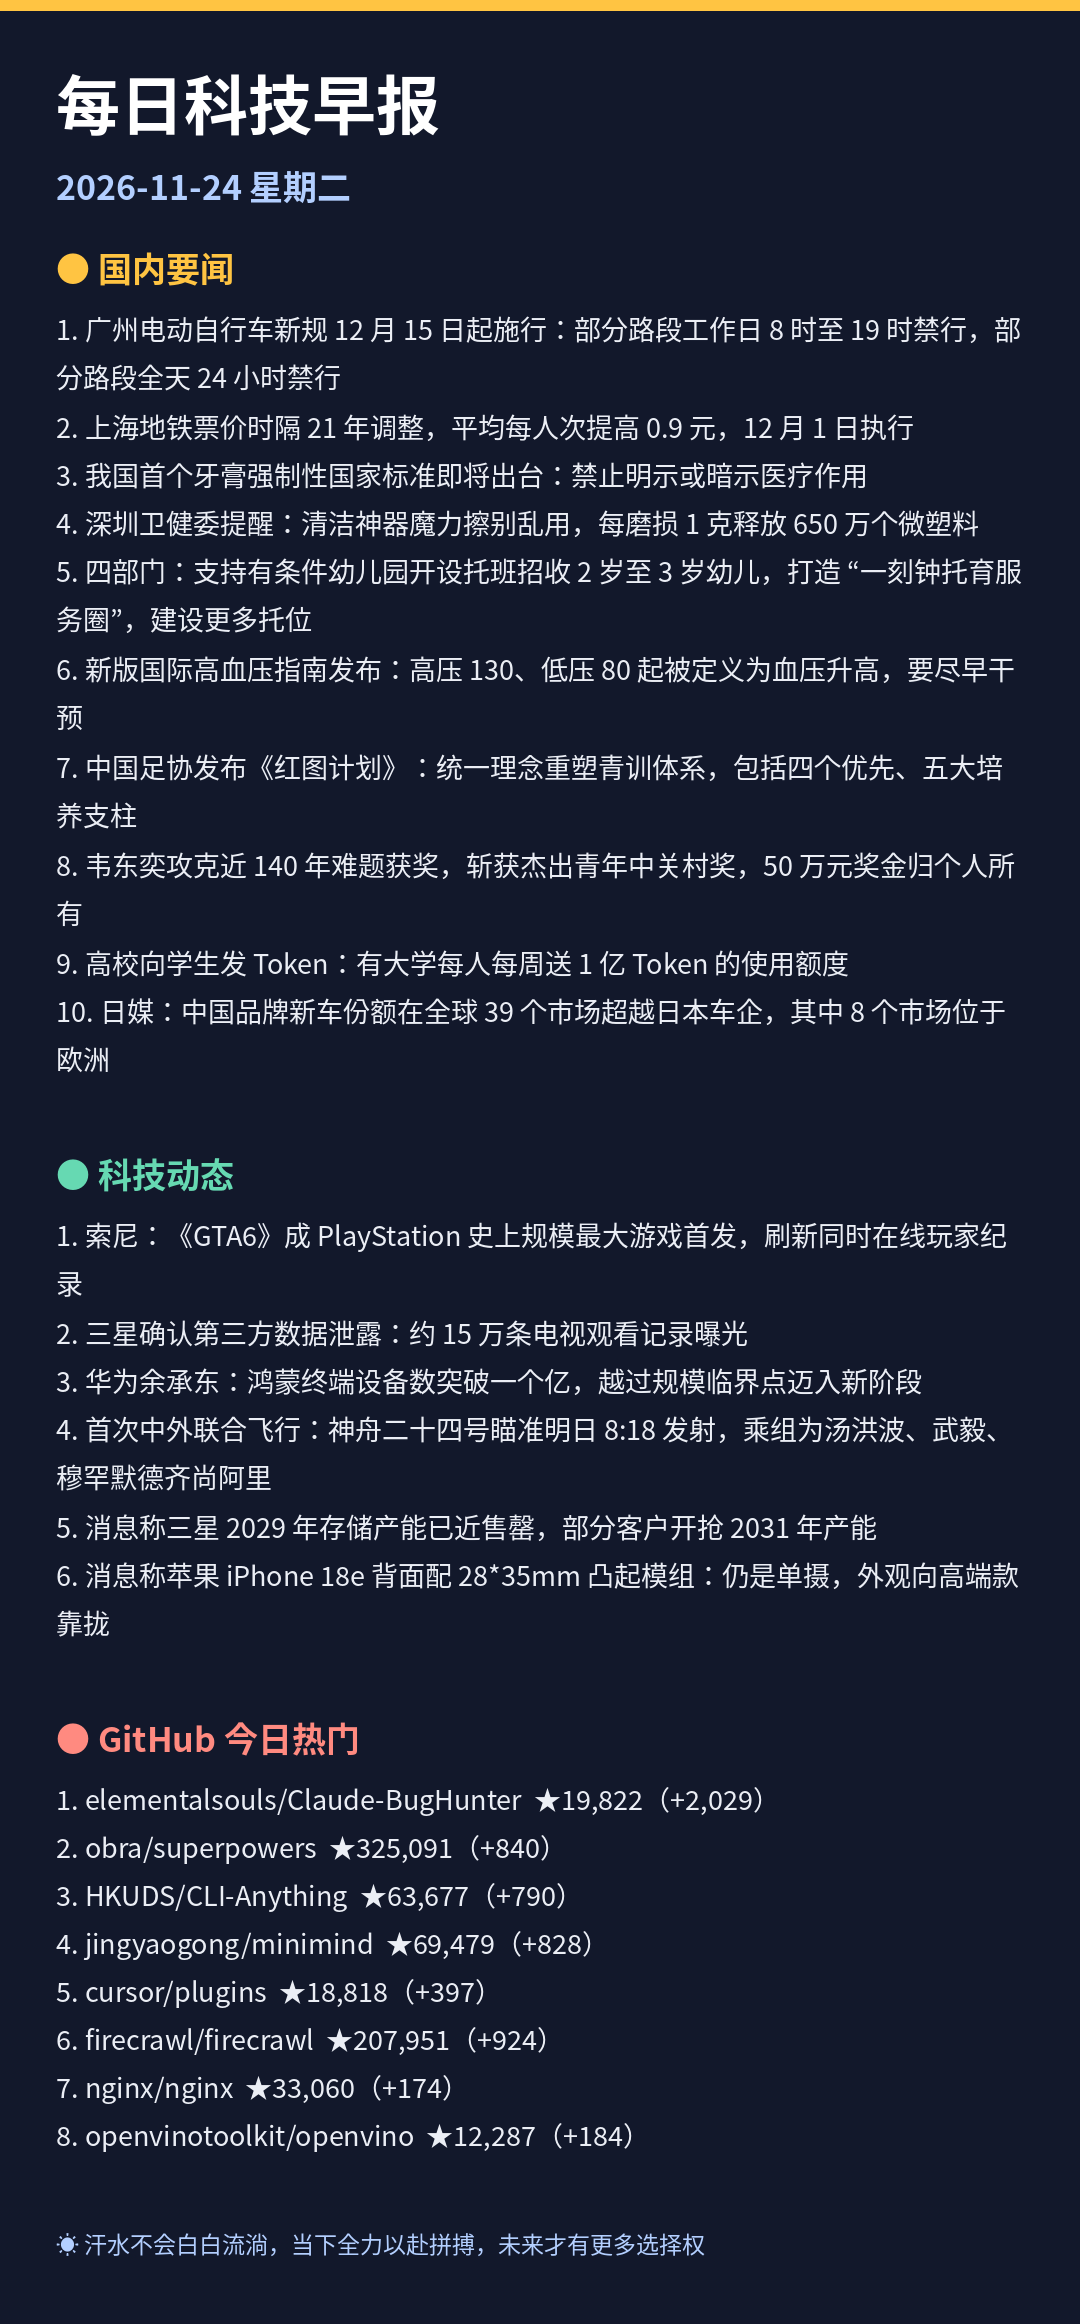
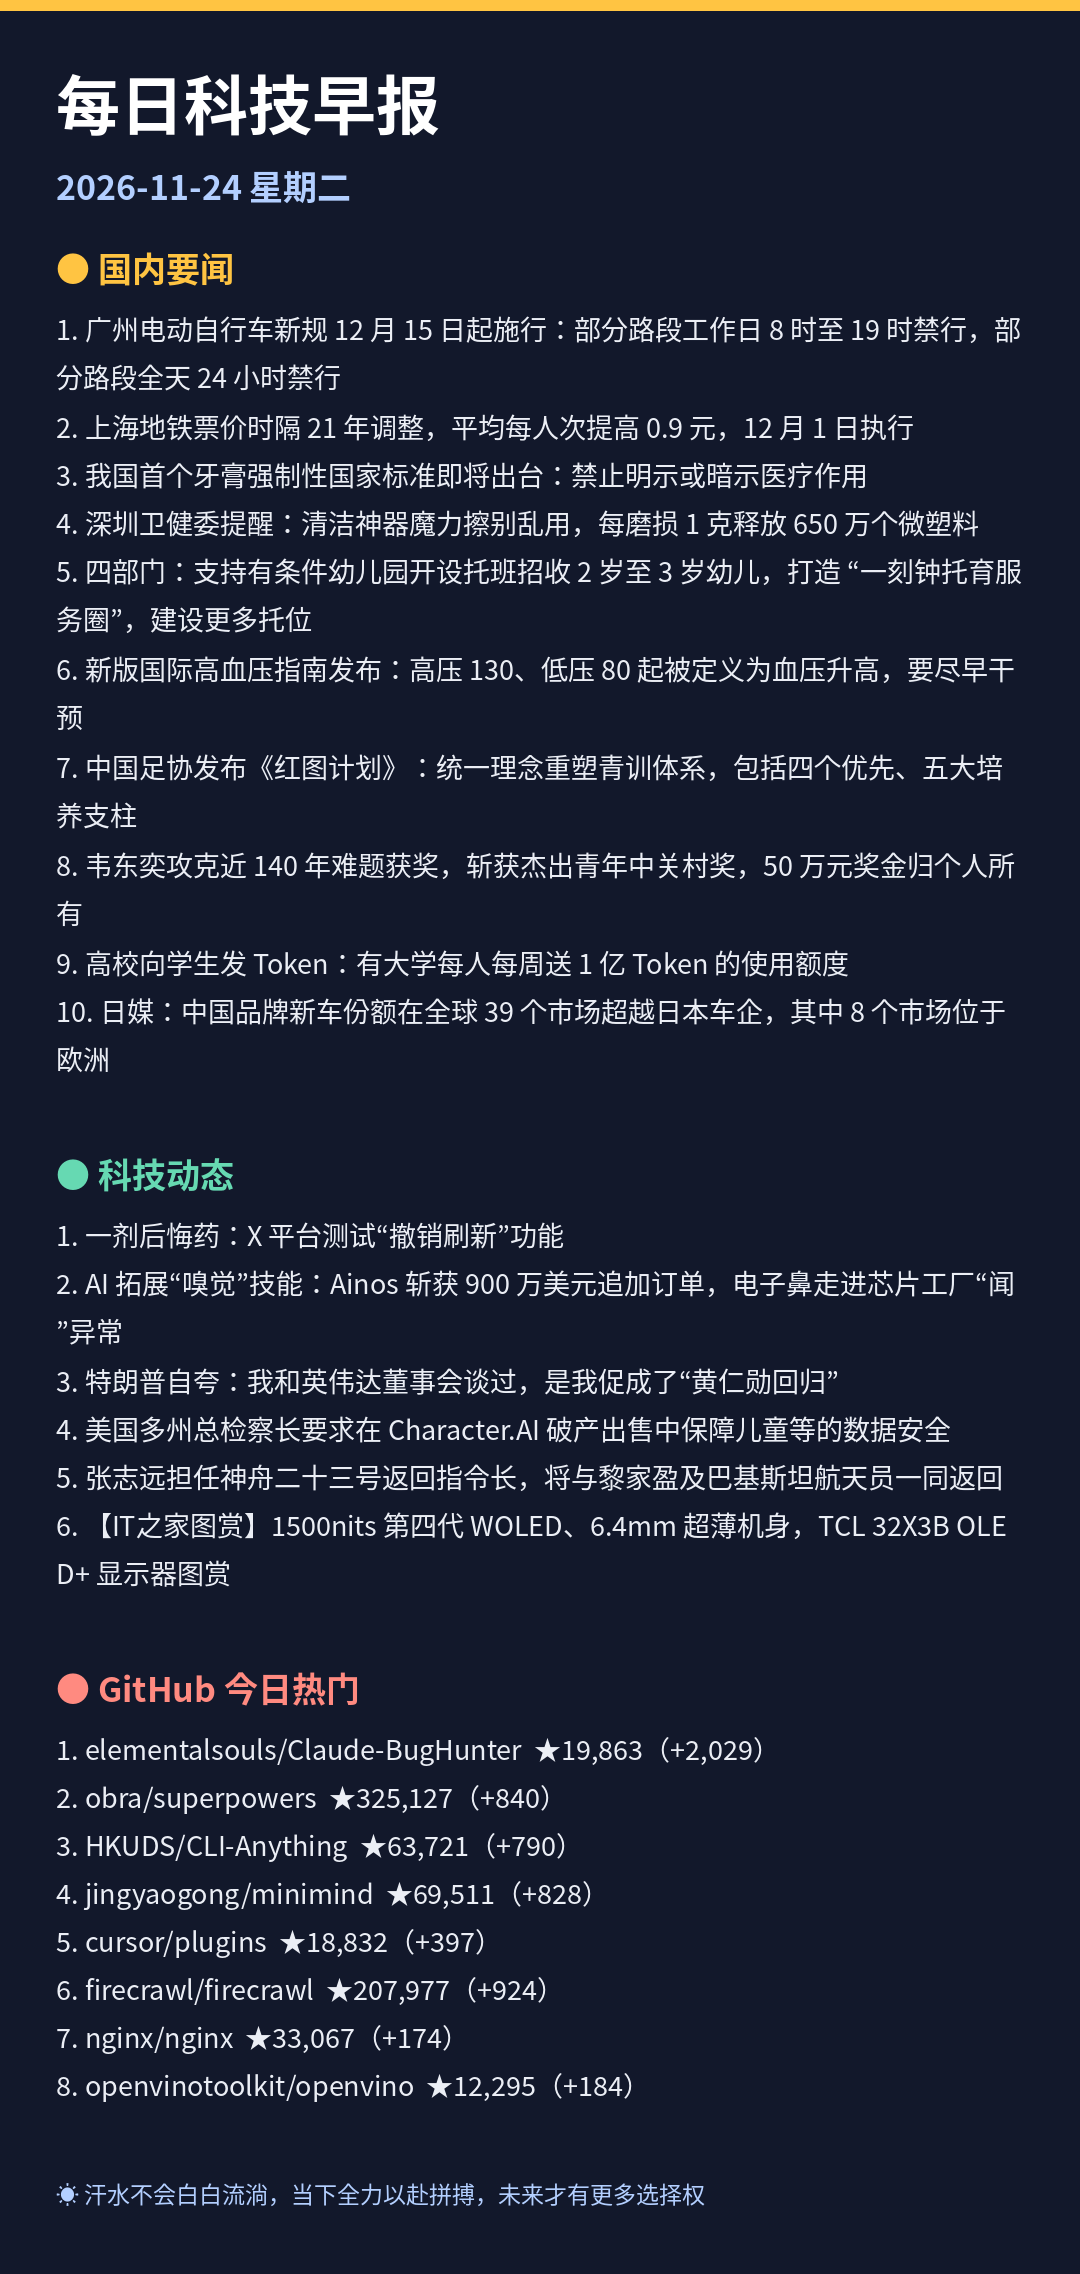
每日早报 2026-11-24

diff --git a/index.html b/index.html
@@ -49,9 +49,9 @@ footer a{color:var(--sub)}
 <h2 style="font-size:17px;margin:22px 2px 4px">📚 往期早报</h2>
 <div class="grid">
 <div class="past">
-<a href="poster.png"><img src="poster.png" alt="2026-11-24 早报" loading="lazy"></a>
+<a href="posters/2026-11-24.png"><img src="posters/2026-11-24.png" alt="2026-11-24 早报" loading="lazy"></a>
 <p class="d">2026-11-24</p><p class="w">星期二 · 今日</p>
-<div class="links"><a class="main" href="poster.png">看大图</a><a href="https://github.com/yztutu/morning-news/blob/main/editions/2026-11-24.md">文字版</a></div>
+<div class="links"><a class="main" href="posters/2026-11-24.png">看大图</a><a href="https://github.com/yztutu/morning-news/blob/main/editions/2026-11-24.md">文字版</a></div>
 </div>
 <div class="past">
 <a href="posters/2026-11-23.png"><img src="posters/2026-11-23.png" alt="2026-11-23 早报" loading="lazy"></a>

diff --git a/README.md b/README.md
@@ -30,34 +30,34 @@
 
 ## 💻 科技动态
 
-1. [索尼：《GTA6》成 PlayStation 史上规模最大游戏首发，刷新同时在线玩家纪录](https://www.ithome.com/1/031/278.htm)
-2. [三星确认第三方数据泄露：约 15 万条电视观看记录曝光](https://www.ithome.com/1/031/277.htm)
-3. [华为余承东：鸿蒙终端设备数突破一个亿，越过规模临界点迈入新阶段](https://www.ithome.com/1/031/276.htm)
-4. [首次中外联合飞行：神舟二十四号瞄准明日 8:18 发射，乘组为汤洪波、武毅、穆罕默德齐尚阿里](https://www.ithome.com/1/031/274.htm)
-5. [消息称三星 2029 年存储产能已近售罄，部分客户开抢 2031 年产能](https://www.ithome.com/1/031/273.htm)
-6. [消息称苹果 iPhone 18e 背面配 28*35mm 凸起模组：仍是单摄，外观向高端款靠拢](https://www.ithome.com/1/031/272.htm)
-7. [OpenAI 宣布 GPT-6.2 Sol 登陆 ChatGPT，而 GPT-5.6 Sol、Terra 将于 12 月 23 日退役](https://www.ithome.com/1/031/271.htm)
-8. [美国俄勒冈州、弗吉尼亚州起诉 SpaceX，指控 Grok AI 生成儿童性虐待图像](https://www.ithome.com/1/031/270.htm)
+1. [一剂后悔药：X 平台测试“撤销刷新”功能](https://www.ithome.com/1/031/292.htm)
+2. [AI 拓展“嗅觉”技能：Ainos 斩获 900 万美元追加订单，电子鼻走进芯片工厂“闻”异常](https://www.ithome.com/1/031/290.htm)
+3. [特朗普自夸：我和英伟达董事会谈过，是我促成了“黄仁勋回归”](https://www.ithome.com/1/031/289.htm)
+4. [美国多州总检察长要求在 Character.AI 破产出售中保障儿童等的数据安全](https://www.ithome.com/1/031/288.htm)
+5. [张志远担任神舟二十三号返回指令长，将与黎家盈及巴基斯坦航天员一同返回](https://www.ithome.com/1/031/287.htm)
+6. [【IT之家图赏】1500nits 第四代 WOLED、6.4mm 超薄机身，TCL 32X3B OLED+ 显示器图赏](https://www.ithome.com/1/031/286.htm)
+7. [空间站首次获得毫米级深紫外晶体：神舟二十三号在轨近半年，生命科学、材料、医学与储能四项阶段性成果公布](https://www.ithome.com/1/031/285.htm)
+8. [微软 Teams 将引入 AI 防诈骗功能，识别通话中的钓鱼迹象](https://www.ithome.com/1/031/284.htm)
 
 <sub>来源：IT之家</sub>
 
 ## 🔥 GitHub 今日热门
 
-1. **[elementalsouls/Claude-BugHunter](https://github.com/elementalsouls/Claude-BugHunter)** — ⭐ 19,822（今日 +2,029） · Python
+1. **[elementalsouls/Claude-BugHunter](https://github.com/elementalsouls/Claude-BugHunter)** — ⭐ 19,863（今日 +2,029） · Python
    A Claude Code skill bundle for bug hunting and external red-team work - 84 skills, 15 slash commands, 681 disclosed-repo…
-2. **[obra/superpowers](https://github.com/obra/superpowers)** — ⭐ 325,091（今日 +840） · Shell
+2. **[obra/superpowers](https://github.com/obra/superpowers)** — ⭐ 325,127（今日 +840） · Shell
    An agentic skills framework software development methodology that works.
-3. **[HKUDS/CLI-Anything](https://github.com/HKUDS/CLI-Anything)** — ⭐ 63,677（今日 +790） · Python
+3. **[HKUDS/CLI-Anything](https://github.com/HKUDS/CLI-Anything)** — ⭐ 63,721（今日 +790） · Python
    "CLI-Anything: Making ALL Software Agent-Native" -- CLI-Hub: https://clianything.cc/
-4. **[jingyaogong/minimind](https://github.com/jingyaogong/minimind)** — ⭐ 69,479（今日 +828） · Python
+4. **[jingyaogong/minimind](https://github.com/jingyaogong/minimind)** — ⭐ 69,511（今日 +828） · Python
    🧠 两小时从 0 训出你的 64M 大模型。Train your own 64M LLM from scratch in 2 hours.
-5. **[cursor/plugins](https://github.com/cursor/plugins)** — ⭐ 18,818（今日 +397） · TypeScript
+5. **[cursor/plugins](https://github.com/cursor/plugins)** — ⭐ 18,832（今日 +397） · TypeScript
    Cursor plugin specification and official plugins
-6. **[firecrawl/firecrawl](https://github.com/firecrawl/firecrawl)** — ⭐ 207,951（今日 +924） · TypeScript
+6. **[firecrawl/firecrawl](https://github.com/firecrawl/firecrawl)** — ⭐ 207,977（今日 +924） · TypeScript
    Knowledge infrastructure to make your agents smarter. Search, scrape and access 550+ data providers through one API.
-7. **[nginx/nginx](https://github.com/nginx/nginx)** — ⭐ 33,060（今日 +174） · C
+7. **[nginx/nginx](https://github.com/nginx/nginx)** — ⭐ 33,067（今日 +174） · C
    The official NGINX Open Source repository.
-8. **[openvinotoolkit/openvino](https://github.com/openvinotoolkit/openvino)** — ⭐ 12,287（今日 +184） · C++
+8. **[openvinotoolkit/openvino](https://github.com/openvinotoolkit/openvino)** — ⭐ 12,295（今日 +184） · C++
    OpenVINO™ is an open source toolkit for optimizing and deploying AI inference
 
 <sub>来源：GitHub Trending</sub>

diff --git a/editions/2026-11-24.md b/editions/2026-11-24.md
@@ -22,34 +22,34 @@
 
 ## 💻 科技动态
 
-1. [索尼：《GTA6》成 PlayStation 史上规模最大游戏首发，刷新同时在线玩家纪录](https://www.ithome.com/1/031/278.htm)
-2. [三星确认第三方数据泄露：约 15 万条电视观看记录曝光](https://www.ithome.com/1/031/277.htm)
-3. [华为余承东：鸿蒙终端设备数突破一个亿，越过规模临界点迈入新阶段](https://www.ithome.com/1/031/276.htm)
-4. [首次中外联合飞行：神舟二十四号瞄准明日 8:18 发射，乘组为汤洪波、武毅、穆罕默德齐尚阿里](https://www.ithome.com/1/031/274.htm)
-5. [消息称三星 2029 年存储产能已近售罄，部分客户开抢 2031 年产能](https://www.ithome.com/1/031/273.htm)
-6. [消息称苹果 iPhone 18e 背面配 28*35mm 凸起模组：仍是单摄，外观向高端款靠拢](https://www.ithome.com/1/031/272.htm)
-7. [OpenAI 宣布 GPT-6.2 Sol 登陆 ChatGPT，而 GPT-5.6 Sol、Terra 将于 12 月 23 日退役](https://www.ithome.com/1/031/271.htm)
-8. [美国俄勒冈州、弗吉尼亚州起诉 SpaceX，指控 Grok AI 生成儿童性虐待图像](https://www.ithome.com/1/031/270.htm)
+1. [一剂后悔药：X 平台测试“撤销刷新”功能](https://www.ithome.com/1/031/292.htm)
+2. [AI 拓展“嗅觉”技能：Ainos 斩获 900 万美元追加订单，电子鼻走进芯片工厂“闻”异常](https://www.ithome.com/1/031/290.htm)
+3. [特朗普自夸：我和英伟达董事会谈过，是我促成了“黄仁勋回归”](https://www.ithome.com/1/031/289.htm)
+4. [美国多州总检察长要求在 Character.AI 破产出售中保障儿童等的数据安全](https://www.ithome.com/1/031/288.htm)
+5. [张志远担任神舟二十三号返回指令长，将与黎家盈及巴基斯坦航天员一同返回](https://www.ithome.com/1/031/287.htm)
+6. [【IT之家图赏】1500nits 第四代 WOLED、6.4mm 超薄机身，TCL 32X3B OLED+ 显示器图赏](https://www.ithome.com/1/031/286.htm)
+7. [空间站首次获得毫米级深紫外晶体：神舟二十三号在轨近半年，生命科学、材料、医学与储能四项阶段性成果公布](https://www.ithome.com/1/031/285.htm)
+8. [微软 Teams 将引入 AI 防诈骗功能，识别通话中的钓鱼迹象](https://www.ithome.com/1/031/284.htm)
 
 <sub>来源：IT之家</sub>
 
 ## 🔥 GitHub 今日热门
 
-1. **[elementalsouls/Claude-BugHunter](https://github.com/elementalsouls/Claude-BugHunter)** — ⭐ 19,822（今日 +2,029） · Python
+1. **[elementalsouls/Claude-BugHunter](https://github.com/elementalsouls/Claude-BugHunter)** — ⭐ 19,863（今日 +2,029） · Python
    A Claude Code skill bundle for bug hunting and external red-team work - 84 skills, 15 slash commands, 681 disclosed-repo…
-2. **[obra/superpowers](https://github.com/obra/superpowers)** — ⭐ 325,091（今日 +840） · Shell
+2. **[obra/superpowers](https://github.com/obra/superpowers)** — ⭐ 325,127（今日 +840） · Shell
    An agentic skills framework software development methodology that works.
-3. **[HKUDS/CLI-Anything](https://github.com/HKUDS/CLI-Anything)** — ⭐ 63,677（今日 +790） · Python
+3. **[HKUDS/CLI-Anything](https://github.com/HKUDS/CLI-Anything)** — ⭐ 63,721（今日 +790） · Python
    "CLI-Anything: Making ALL Software Agent-Native" -- CLI-Hub: https://clianything.cc/
-4. **[jingyaogong/minimind](https://github.com/jingyaogong/minimind)** — ⭐ 69,479（今日 +828） · Python
+4. **[jingyaogong/minimind](https://github.com/jingyaogong/minimind)** — ⭐ 69,511（今日 +828） · Python
    🧠 两小时从 0 训出你的 64M 大模型。Train your own 64M LLM from scratch in 2 hours.
-5. **[cursor/plugins](https://github.com/cursor/plugins)** — ⭐ 18,818（今日 +397） · TypeScript
+5. **[cursor/plugins](https://github.com/cursor/plugins)** — ⭐ 18,832（今日 +397） · TypeScript
    Cursor plugin specification and official plugins
-6. **[firecrawl/firecrawl](https://github.com/firecrawl/firecrawl)** — ⭐ 207,951（今日 +924） · TypeScript
+6. **[firecrawl/firecrawl](https://github.com/firecrawl/firecrawl)** — ⭐ 207,977（今日 +924） · TypeScript
    Knowledge infrastructure to make your agents smarter. Search, scrape and access 550+ data providers through one API.
-7. **[nginx/nginx](https://github.com/nginx/nginx)** — ⭐ 33,060（今日 +174） · C
+7. **[nginx/nginx](https://github.com/nginx/nginx)** — ⭐ 33,067（今日 +174） · C
    The official NGINX Open Source repository.
-8. **[openvinotoolkit/openvino](https://github.com/openvinotoolkit/openvino)** — ⭐ 12,287（今日 +184） · C++
+8. **[openvinotoolkit/openvino](https://github.com/openvinotoolkit/openvino)** — ⭐ 12,295（今日 +184） · C++
    OpenVINO™ is an open source toolkit for optimizing and deploying AI inference
 
 <sub>来源：GitHub Trending</sub>
